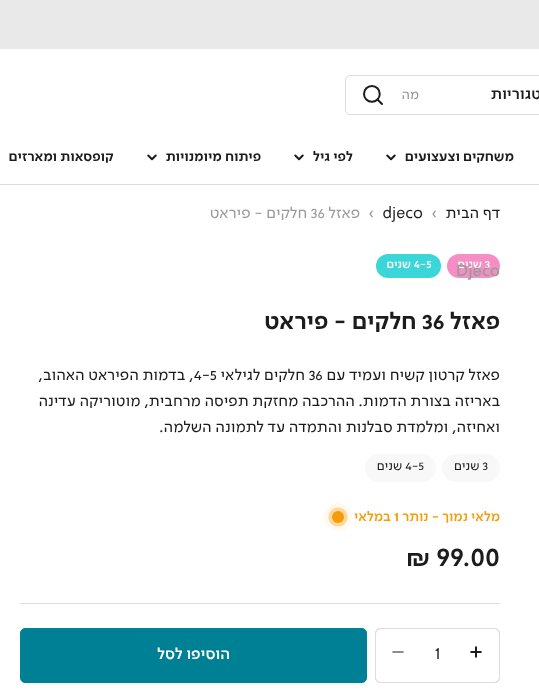
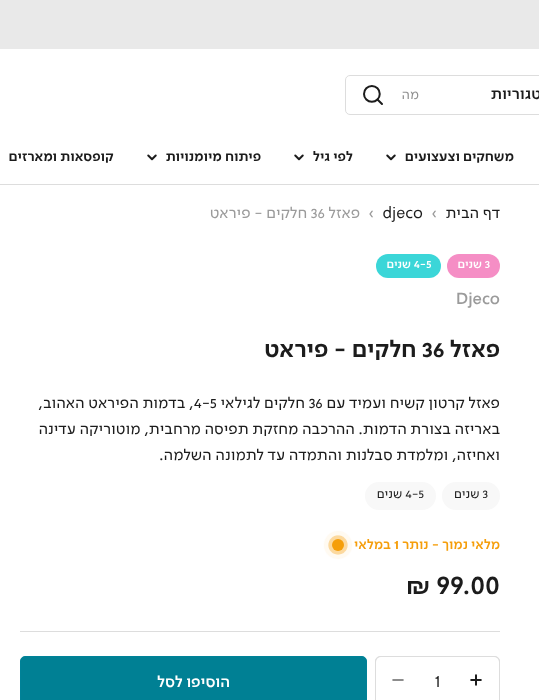
Product page, package 4: more-from-brand section, age-first recommendations, recently viewed
New mk-more-from-brand section over the product's brand collection with
same-age products first; related-products renamed and re-ordered by age
(logged core edit) and the gift-wrap product skipped; Hyper's recently
viewed section added.

Claude-Session: https://claude.ai/code/session_01QfBjERy37Re1AYHdyrQKXr

diff --git a/assets/mk-custom.css b/assets/mk-custom.css
@@ -684,7 +684,8 @@
   font-weight: 600;
 }
 .mk-age-chips--badges .mk-age-chip:not([style]) { color: rgb(var(--mk-color-text)); }
-.product__info-wrapper .product__block--custom_liquid:has(> .mk-age-chips--badges) { margin-bottom: -1.2rem; }
+.product__info-wrapper .product__block--custom_liquid:has(> .mk-age-chips--badges) { margin-bottom: 0; }
+.product__info-wrapper .product__block--custom_liquid:has(> .mk-age-chips--badges) + .product__block--meta { margin-top: 1.2rem; }
 /* Gift-wrap checkbox on the product page (Hyper's gift-wrapping element): no gift-note field here */
 .product__info-wrapper .mk-product-gift-wrap gift-note { display: none; }
 .product__info-wrapper .mk-product-gift-wrap label { font-size: 1.6rem; }

diff --git a/docs/CUSTOMIZATIONS.md b/docs/CUSTOMIZATIONS.md
@@ -16,3 +16,4 @@ comments and logged here. Carry these over manually on every Hyper update.
 | 2026-10-11 | `sections/newsletter.liquid` | Optional required consent checkbox (`consent_checkbox` setting) wrapping the terms text, tied to the form with the `form=` attribute so native validation blocks submit | Block between `MK-CUSTOM start/end` around the `newsletter_term` output + one schema setting before `newsletter_term_size`. On a Hyper update: re-insert both. |
 | 2026-10-12 | `snippets/facet-short.liquid` | Sort dropdown: names from the theme locale (`products.facets.sort_options.*`, added to he.json + en.default.json; Shopify only localizes `sort_options` in the store's primary language) and hiding of the values listed in the theme setting `mk_sort_hidden` (active sort always kept) | Block between `MK-CUSTOM start/end` replacing the `for option in results.sort_options` loop. Rendered by the collection toolbar, the filter drawer and search. On a Hyper update: re-insert the loop + the locale keys. |
 | 2026-10-12 | `config/settings_schema.json` | New settings group "MK custom" with `mk_sort_hidden` (text, default `manual, most-relevant, title-ascending, title-descending`) | Appended as the last group. On a Hyper update: re-append the group. |
+| 2026-10-14 | `sections/related-products.liquid` | Recommendations that share an age range (`custom.age_range`) with the current product are rendered first, then the rest (two passes over `recommendations.products`, same card markup); the gift-wrap product (tag `gift-wrap`) is skipped | Block between `MK-CUSTOM start/end` replacing the `for recommendation in recommendations.products` loop. On a Hyper update: re-insert the two-pass loop. |

diff --git a/docs/progress.md b/docs/progress.md
@@ -540,3 +540,13 @@ continues in a NEW session. Starting point for that session:
   "value|#hex" per line, defaults from the Home age pills). Hyper's `badges` block was already the
   first block. Verified on /products/261 (3 שנים pink, 4-5 שנים teal) at 1440/390. theme check
   reports the snippet as orphaned (it is referenced from template JSON only), 0 errors.
+- Product package 4, recommendations (2026-10-14): new `sections/mk-more-from-brand.liquid` (T3):
+  brand collection from `product.collections` (custom.collection_kind = brand), first 50 products,
+  same-age (custom.age_range) first, current product skipped, Hyper's product-slider + card-product
+  markup (5 columns, bottom nav + progress line like Home, 2 columns mobile), button to the brand
+  collection, hidden when the brand has < 3 other products. `related-products` renamed "מוצרים
+  שחשבנו שתאהב", 5 columns, bottom nav, and a logged core edit renders same-age recommendations
+  first and skips the gift-wrap product (it was recommended). Hyper's `recently-viewed-products`
+  added ("מוצרים שצפית בהם לאחרונה", 5 columns). Order: main → brand → recommendations → recently
+  viewed → reviews. Verified on /products/261 (djeco: 10 cards) after visiting /products/121790
+  (1 recently viewed) at 1440/390 (`docs/screenshots/product-feedback/brand-*.png`).
